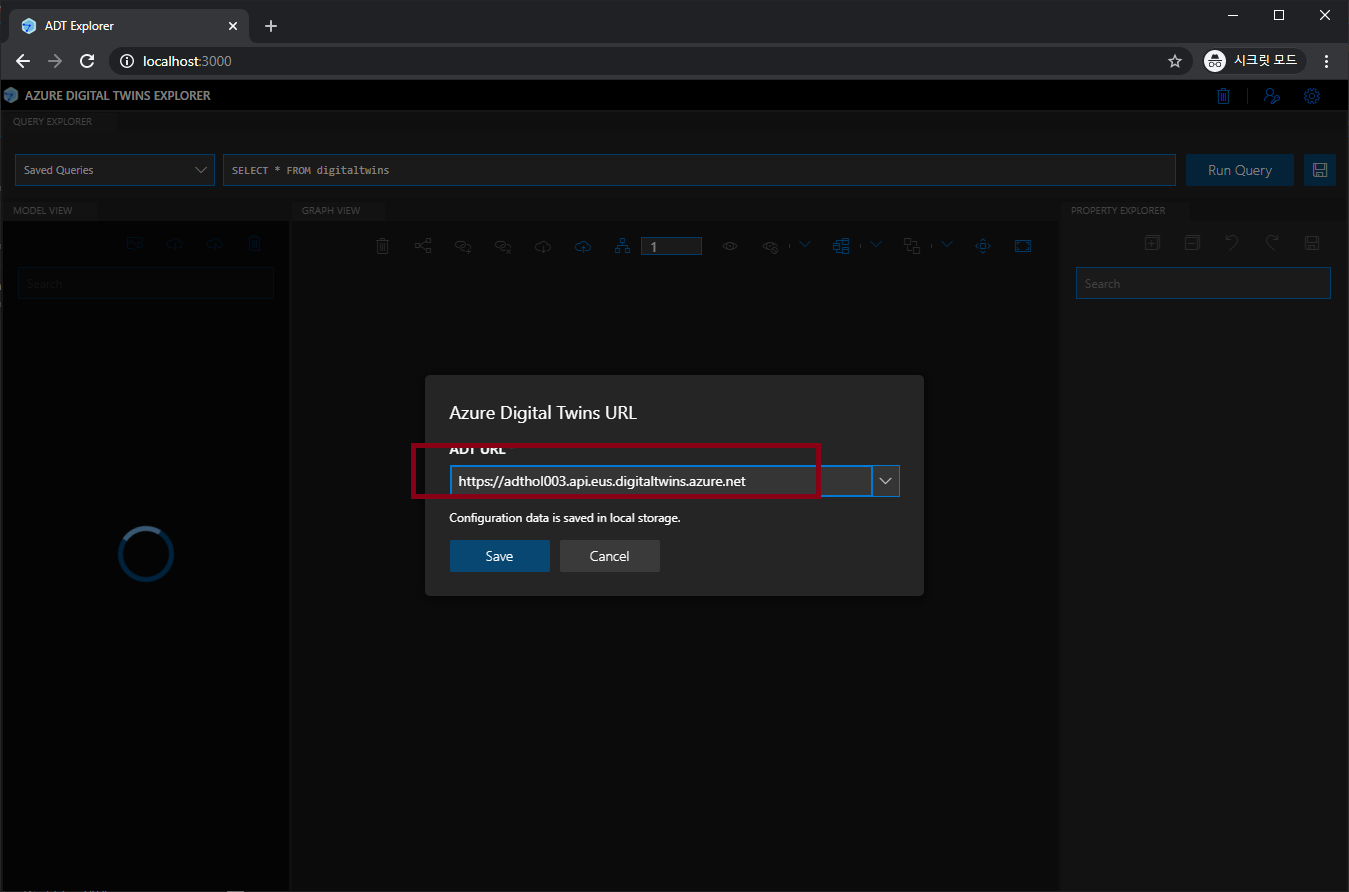
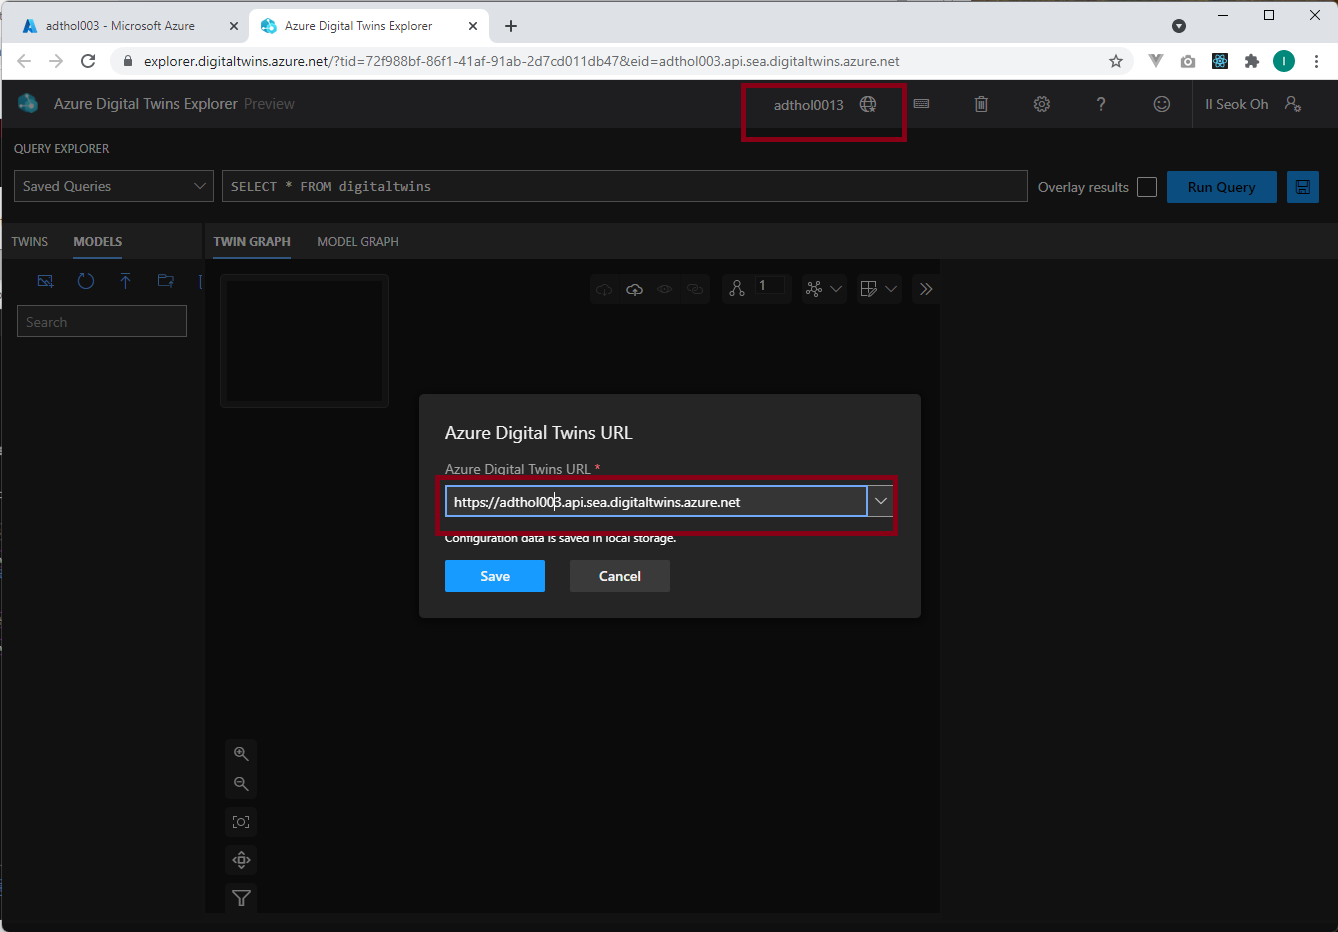
update ADT HOL

diff --git a/ADT/lab2-setup-model.md b/ADT/lab2-setup-model.md
@@ -1,74 +1,53 @@
-# Lab 2 - Azure Digital Twin Explorer 설정 (15분)
+# Lab 2 - Azure Digital Twin Explorer (1분)
 
 ADT 모델을 설정하는 방법은 여러가지가 있습니다. Azure CLI를 사용할 수도 있고 ADT REST API나 SDK를 사용할 수도 있습니다. 이 실습에서는 [Azure Digital Twin Explorer](https://github.com/Azure-Samples/digital-twins-explorer/tree/master/)을 사용하여 UI에서 모델을 업로드하고 설정을 하는 방법을 사용해보겠습니다. 
 
 ![ADT Explorer](images/adt-explorer.png)
 
-ADT Explorer를 실행하려면 Node.js 10+ 이 설치되어 있어야 합니다. 버전을 확인합니다. 
+아직은 모델도 없고 Graph도 없습니다. 
 
-아래 예제는 Windows 10 환경에서 PowerShell 을 사용했습니다. 자신의 쉘 환경에 맞춰 실행 합니다.
+![ADT Explorer](images/adt-explorer-preview.png)
 
-``` powershell
-PS C:\Users\iloh\source\digital-twins-explorer> node --version
-v12.19.0
-PS C:\Users\iloh\source\digital-twins-explorer> npm --version
-6.14.9
-```
+## ADT Explorer 열기 
 
-## ADT Explorer 설치 
+방금 만든 ADT 리소스로 이동하여 개요 메뉴에서 **Open Azure Digital Twins Explorer(미리보기)**를 클릭하여 ADT Explorer를 열어봅니다. 
 
-먼저 github에서 Azure Digital Twin Explorer 소스코드를 클론 합니다. 
+![ADT Explorer 열기](open-adt-explorer.png)
 
-``` powershell
-git clone https://github.com/Azure-Samples/digital-twins-explorer.git
-```
+## ADT Explorer URL 오류 발생시 조치 
 
-client/src 폴더로 이동하여 npm install 을 실행합니다. 
+URL 오류가 발생하면 
+![ADT Explorer URL오류](images/adt-explorer-url-error.png)
 
+Azure Portal 에서 https:// 를 포함한 URL을 복사합니다. 
 
+![ADT URL 복사](images/adt-explorer-setup2.png)
 
-``` powershell
-cd .\digital-twins-explorer\client\src\
-npm install
-```
+ADT Explorer에 설정합니다. 
 
-> found 104 vulnerabilities (103 low, 1 high) vulnerabilities 경고가 발생할 수 있으나 > 무시하고 진행합니다. 
+![ADT URL 설정](images/adt-explorer-setup.png)
 
-## ADT Explorer 실행
+## ADT Explorer Permission 오류 발생시 조치 
 
-npm run start 명령으로 애플리케이션을 실행합니다. 정상적으로 실행이 되었다면 웹 브라우저가 실행되면서 http://localhost:3000/ 에 접속합니다. 처음 실행할 때 시간이 걸릴 수 있습니다. 페이지가 정상적으로 표시될 때까지 기다립니다.
+![ADT Explorer Permission 에러](images/adt-explorer-permission-error.png)
 
-``` bash
-npm run start
-```
+Azure Digital Twin으로 이동합니다. 
 
-## ADT Explorer 인증 
+![ADT 이동](images/adt-goto-adt.png)
 
-ADT Explorer를 로컬에서 실행시키면 Azure Default credentials를 사용하여 로그인 합니다. 따라서 커멘트 프롬프트나 파워쉘 등에서 Azure CLI를 사용하여 로그인하거나 az login, Visual Studio Code 에서 Azure Sign in 을 하면 정상적으로 로그인 됩니다. 
+Azure Digital Twin 서비스의 설정 등을 수정하기 위해서는 적절한 권한이 있어야 합니다. 내 계정에 "Azure Digital Twin Owner" 권한 설정하기 위해 "액세스 제어(IAM)" 메뉴에서 "역할 할당" 탭의 "+추가" 버튼을 누릅니다. **역할 할당 추가"** 를 선택합니다. 
 
-또는 Azure 포탈에 로그인되어 있는 브라우저에서 http://localhost:3000 으로 접속해보세요.
+![ADT 권한](images/adt-role.png)
 
-## ADT Explorer 설정 
+역할 할당 추가 메뉴에서 역할을 "Azure Digital Twin 소유자"로 선택하고 사용자, 그룹 또는 서비스주체 중에서 내 이메일등으로 검색하여 선택하고 저장을 누릅니다. 
 
-ADT Explorer(http://localhost:3000)가 실행되면 처음에 ADT URL 입력창이 표시됩니다. 여기에 Lab 1 에서 만들었던 ADT의 URL을 찾아서 입력합니다. 형식은 반드시 **https://** 를 붙여서 입력합니다. 
+저장이 완료되면 역할 할당에 추가된 것을 확인합니다. 
 
-![ADT URL](images/adt-explorer-setup2.png)
+![ADT 권한추가](images/adt-add-role.png)
 
-![ADT URL](images/adt-explorer-setup.png)
+![ADT 권한추가](images/adt-add-role2.png)
 
-## (옵션) 3000번 포트가 사용중이면 오류가 발생합니다.
-
-만약 로컬 PC에서 3000번 포트를 사용중이라면 포트를 변경하여 실행해야 정상작동합니다. 예를들어 아래 명령으로 8080포트를 사용하도록 설정할 수 있습니다. 
-
-윈도우 커멘트 프롬프트 (cmd)
-``` cmd
-set PORT=8080 && npm run start
-```
-
-Linux / Mac(bash)
-``` bash
-PORT=8080 npm run start
-```
+ADT Explorer를 닫았다가 다시 열어봅니다. **다시 에러가 나면 로그아웃 했다가 다시 로그인** 합니다. 
 
 ## [Lab 3 ADT 모델 만들기](lab3-adt-model.md)
 

diff --git a/ADT/lab4-ingest-event.md b/ADT/lab4-ingest-event.md
@@ -51,9 +51,9 @@ Azure Portal에서 system-managed identity를 만들고 Function App의 identity
 
 ![역할 할당](images/adt-assign-function.png)
 
-한번 더 확인을 위해서 다시 Azure Function으로 가서 "ID 메뉴를 선택한 후 **"Azure 역할 할당"**을 선택합니다. 아래 그림과 같이 할당 된 것을 확인 할 수 있습니다. 
+![역할 할당 2](images/adt-assign-function2.png)
 
-![Assign 확인](images/adt-assign-function-confirm.png)
+![역할 할당 2](images/adt-assign-function3.png)
 
 ### Azure Function 환경변수 설정
 
@@ -94,9 +94,8 @@ Azure Digital Twin의 URL을 Function의 환경변수에 설정해줍니다. Azu
 1. VSCode 프롬프트에 아래 정보를 선택하거나 입력합니다.
 
     - **Select a language for your function project**: `C#` 선택.
-    - **Select a template for your project's first function**: `Change template filter` 선택.
-    - **Select a template filter**: All 선택
-    - **Select a template for your project's first function**: `EventGridTrigger` 선택.
+    - **Select a .NET runtime**: .NET Core 3
+    - **Select a template for your project's first function**: Azure Event Grid Trigger
     - **Provide a function name**: `TwinsFunction` 입력.
     - **Provide a namespace**: `My.Function` 입력.
     - **When prompted for a storage account choose**: Skip for now
@@ -108,8 +107,8 @@ Visual Studio Code 터미널(Terminal > New Termianl)에서 아래 명령을 이
 
 
 ```dos
-    dotnet add package Azure.DigitalTwins.Core --version 1.0.0
-    dotnet add package Azure.identity --version 1.2.2
+    dotnet add package Azure.DigitalTwins.Core
+    dotnet add package Azure.identity
     dotnet add package System.Net.Http
 ```
 
@@ -136,6 +135,7 @@ using Newtonsoft.Json;
 using Newtonsoft.Json.Linq;
 using System;
 using System.Net.Http;
+using System.Threading.Tasks;
 
 namespace My.Function
 {
@@ -147,7 +147,7 @@ namespace My.Function
         private static readonly HttpClient httpClient = new HttpClient();
 
         [FunctionName("TwinsFunction")]
-        public async void Run([EventGridTrigger] EventGridEvent eventGridEvent, ILogger log)
+        public async Task Run([EventGridTrigger] EventGridEvent eventGridEvent, ILogger log)
         {
             log.LogInformation(eventGridEvent.Data.ToString());
             if (adtInstanceUrl == null) log.LogError("Application setting \"ADT_SERVICE_URL\" not set");
@@ -218,6 +218,7 @@ namespace My.Function
     ![Application Logging](./images/application-logging.png)
 1. 다른 방법으로는 VS Code 에서 Azure Function을 찾아 오른쪽 클릭 후 **Start Streaming Logs**를 선택하면 됩니다.
   ![Start Streaming Logs](./images/function-stream-logs-extension.png)
+  
   
 ## IoT Hub 셋업 
 

diff --git a/ADT/README.md b/ADT/README.md
@@ -27,12 +27,11 @@
     * [VS Code C# Extension](https://marketplace.visualstudio.com/items?itemName=ms-dotnettools.csharp)
     * [VS Code Azure Function Extension](https://marketplace.visualstudio.com/items?itemName=ms-azuretools.vscode-azurefunctions)
     * [Git 설치](https://git-scm.com/downloads)
-    * [Node.js 설치](https://nodejs.org/ko/download/)
     * [Azure CLI 설치(옵션)](https://docs.microsoft.com/ko-kr/cli/azure/install-azure-cli)
 
 ## [Lab 1 Azure Digital Twin 만들기 (5분)](lab1-adt-basic.md)
 
-## [Lab 2 Azure Digital Twin Explorer 설정 (15분)](lab2-setup-model.md)
+## [Lab 2 Azure Digital Twin Explorer (1분)](lab2-setup-model.md)
 
 ## [Lab 3 ADT 모델 만들기 (10분)](lab3-adt-model.md)
 
